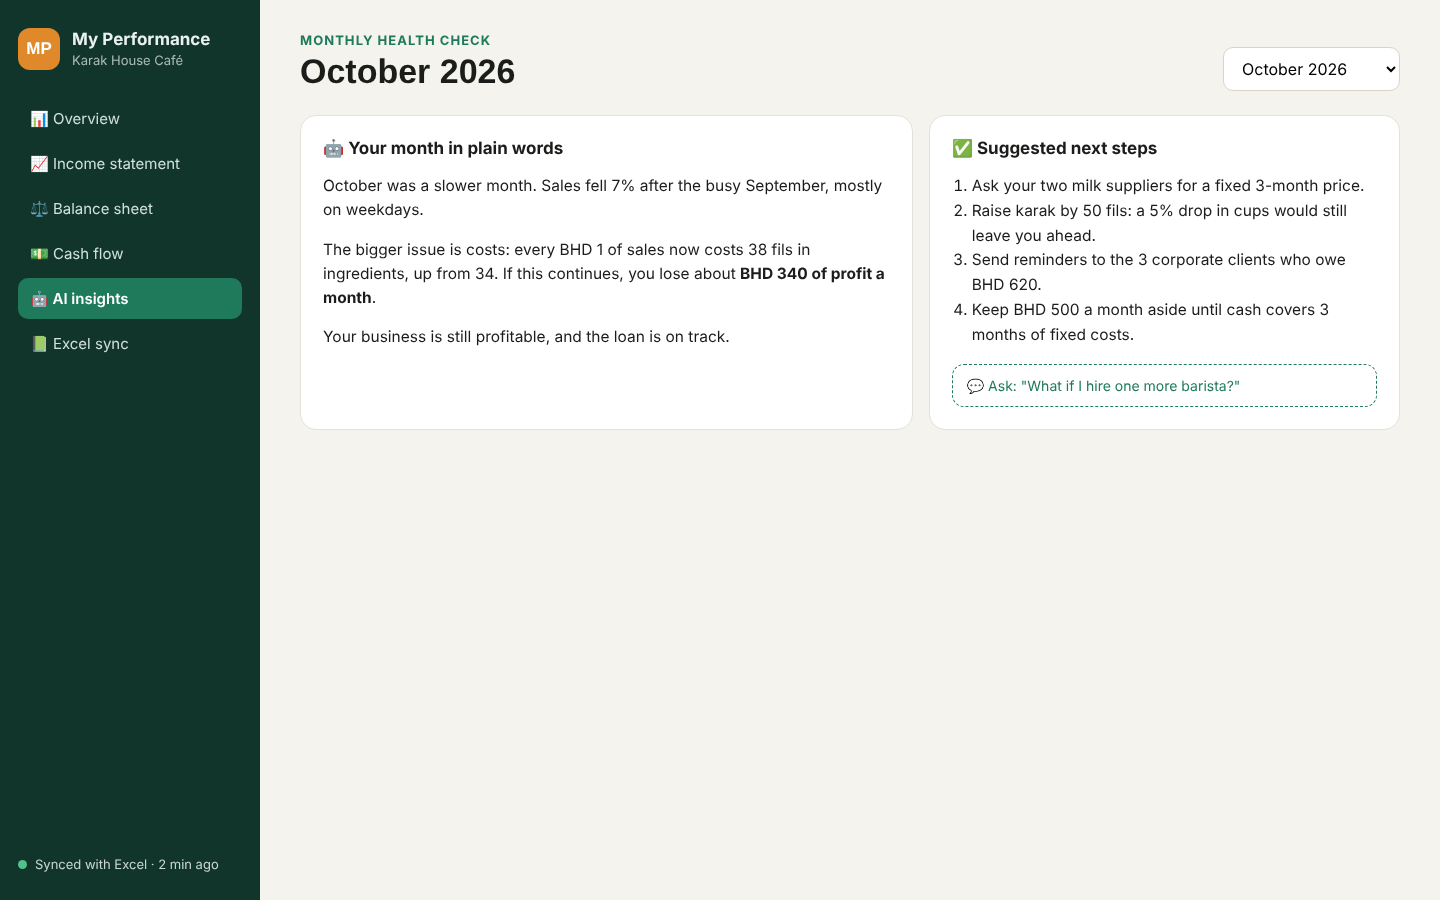
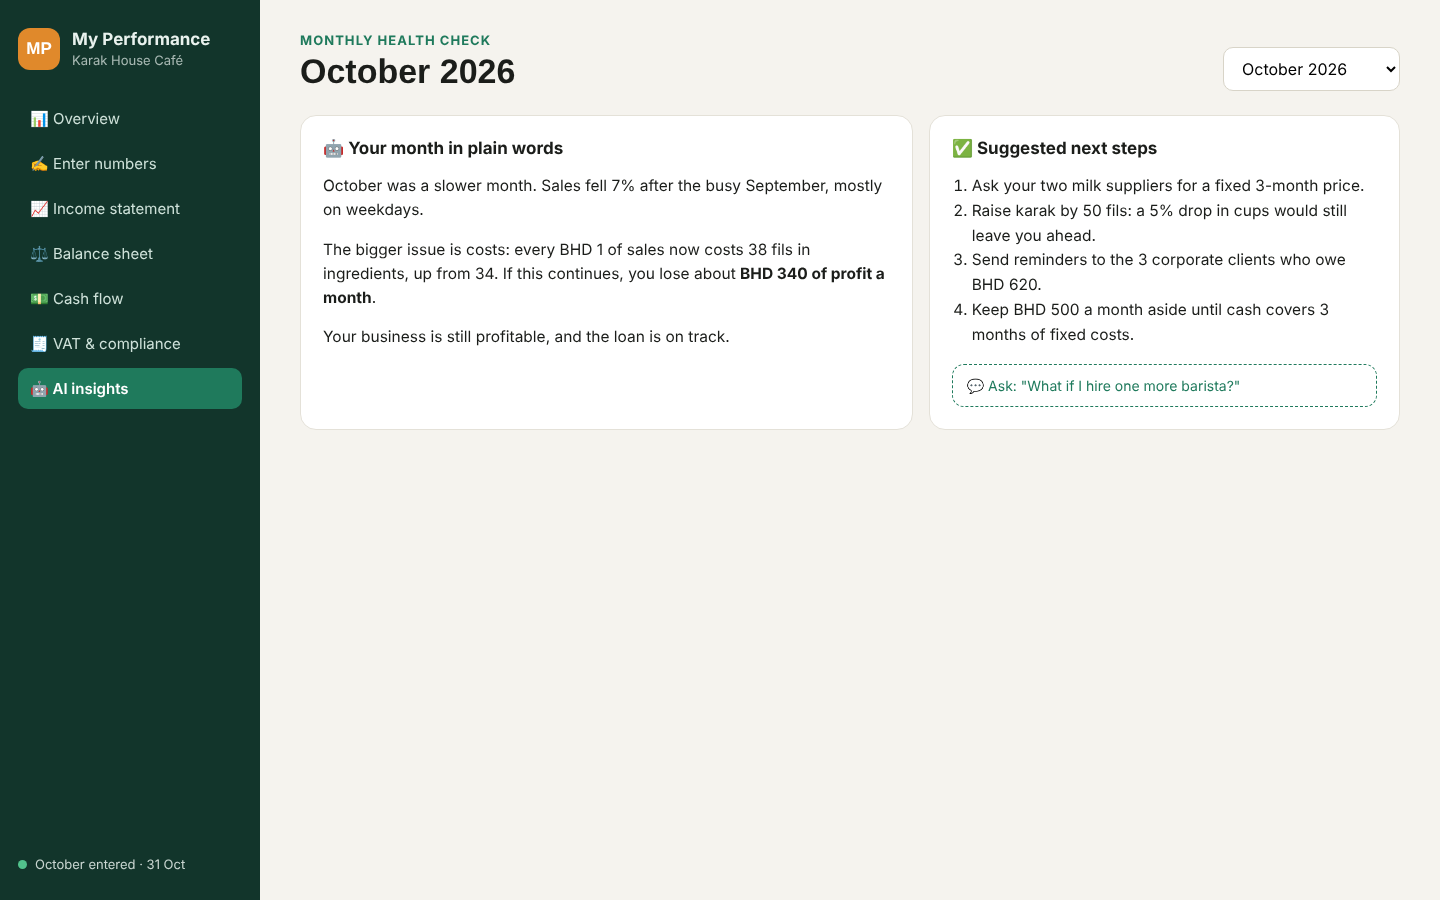
Add monthly entry, VAT and compliance, year-on-year comparison

diff --git a/index.html b/index.html
@@ -14,13 +14,14 @@
     <div class="brand"><div class="mark">MP</div><div><b>My Performance</b><span>Karak House Café</span></div></div>
     <nav id="nav">
       <a data-tab="overview" class="on">📊 Overview</a>
+      <a data-tab="enter">✍ Enter numbers</a>
       <a data-tab="income">📈 Income statement</a>
       <a data-tab="balance">⚖ Balance sheet</a>
       <a data-tab="cash">💵 Cash flow</a>
+      <a data-tab="vat">🧾 VAT &amp; compliance</a>
       <a data-tab="ai">🤖 AI insights</a>
-      <a data-tab="excel">📗 Excel sync</a>
     </nav>
-    <div class="sync"><span class="dot"></span> Synced with Excel · 2 min ago</div>
+    <div class="sync"><span class="dot"></span> October entered · 31 Oct</div>
   </aside>
 
   <main>
@@ -33,15 +34,15 @@
     <section id="overview" class="tab on">
       <div class="grid4">
         <div class="kpi"><p>Health score</p><b class="big good">72<small>/100</small></b><span class="chg down">▼ 6 from September</span></div>
-        <div class="kpi"><p>Sales</p><b class="big">BHD 8,450</b><span class="chg down">▼ 7.1% vs September</span></div>
+        <div class="kpi"><p>Sales</p><b class="big">BHD 8,450</b><span class="chg up">▲ 8% vs Oct 2025</span></div>
         <div class="kpi"><p>Net profit</p><b class="big">BHD 710</b><span class="chg down">▼ 32% vs September</span></div>
-        <div class="kpi"><p>Cash in the bank</p><b class="big">BHD 4,850</b><span class="chg">≈ 1.1 months of fixed costs</span></div>
+        <div class="kpi"><p>🧾 VAT return</p><b class="big">Due in 12 days</b><span class="chg up">BHD 486 to pay · ready to file</span></div>
       </div>
       <div class="grid2">
         <div class="card">
-          <h3>Sales and profit, last 6 months</h3>
+          <h3>Sales: 2026 vs 2025</h3>
           <div id="chart" class="chart"></div>
-          <div class="legend"><span><i class="l1"></i>Sales</span><span><i class="l2"></i>Net profit</span></div>
+          <div class="legend"><span><i class="l1"></i>2026</span><span><i class="l3"></i>2025</span></div>
         </div>
         <div class="card">
           <h3>⚠ Early warnings</h3>
@@ -49,7 +50,57 @@
             <li class="red"><b>Cost of goods is rising</b><span>38% of sales this month, up from 34%. Milk and cardamom prices went up.</span></li>
             <li class="amber"><b>Cash cover is thin</b><span>Cash covers about 1.1 months of rent, salaries and bills. Aim for 3 months.</span></li>
             <li class="amber"><b>Customers owe more</b><span>Money owed by corporate clients rose by BHD 150.</span></li>
-            <li class="green"><b>Loan on track</b><span>Repayments are on time. BHD 5,200 left.</span></li>
+            <li class="amber"><b>CR renewal next month</b><span>Renew before the expiry date to avoid a fine.</span></li>
+          </ul>
+        </div>
+      </div>
+    </section>
+
+    <!-- ENTER -->
+    <section id="enter" class="tab">
+      <div class="grid2">
+        <div class="card">
+          <h3>✍ Enter October's numbers</h3>
+          <p class="muted">Fill in the month's totals. Everything else is calculated for you.</p>
+          <div class="form">
+            <label>Sales<input data-k="sales" value="8450"></label>
+            <label>Cost of goods<input data-k="cogs" value="3210"></label>
+            <label>Rent<input data-k="rent" value="1200"></label>
+            <label>Salaries<input data-k="sal" value="2400"></label>
+            <label>Utilities<input data-k="util" value="380"></label>
+            <label>Marketing<input data-k="mkt" value="250"></label>
+            <label>Other expenses<input data-k="oth" value="180"></label>
+            <label>Cash in the bank<input data-k="cash" value="4850"></label>
+          </div>
+          <button class="btn" id="save">Save month</button> <span id="saved" class="muted"></span>
+        </div>
+        <div class="card">
+          <h3>⚡ Calculated instantly</h3>
+          <table id="live"></table>
+          <p class="muted" style="margin-top:14px">All amounts in BHD. VAT at 10%.</p>
+        </div>
+      </div>
+    </section>
+
+    <!-- VAT -->
+    <section id="vat" class="tab">
+      <div class="grid2">
+        <div class="card"><h3>🧾 VAT return · Q4 2026 <em>ready to file</em></h3>
+        <table>
+          <tr><th>BHD</th><th>October</th></tr>
+          <tr><td>Sales (before VAT)</td><td>8,450</td></tr>
+          <tr><td>Output VAT charged (10%)</td><td>845</td></tr>
+          <tr><td>Input VAT paid on purchases</td><td>(359)</td></tr>
+          <tr class="total"><td>VAT to pay</td><td>486</td></tr>
+        </table>
+        <p class="muted" style="margin-top:14px">📅 Filing deadline in 12 days. We remind you 7 days and 1 day before.</p>
+        </div>
+        <div class="card"><h3>✅ Compliance checklist</h3>
+          <ul class="warn">
+            <li class="amber"><b>VAT return due in 12 days</b><span>Figures ready. A late return means a fine.</span></li>
+            <li class="amber"><b>Commercial registration (CR)</b><span>Renewal due next month.</span></li>
+            <li class="green"><b>Social insurance</b><span>October contributions paid on time.</span></li>
+            <li class="green"><b>Staff work permits</b><span>All valid. Next expiry in 45 days.</span></li>
           </ul>
         </div>
       </div>
@@ -137,27 +188,6 @@
       </div>
     </section>
 
-    <!-- EXCEL -->
-    <section id="excel" class="tab">
-      <div class="grid2">
-        <div class="card">
-          <h3>📗 Two-way sync with Excel</h3>
-          <p class="muted">Keep using your own spreadsheet. Changes in Excel update the app, and the app writes the three statements back into the file.</p>
-          <ul class="steps">
-            <li><b>1</b> Upload or link your sales and expenses sheet</li>
-            <li><b>2</b> The app sorts each line into the right account</li>
-            <li><b>3</b> Statements and warnings update in seconds</li>
-            <li><b>4</b> Everything is written back to your Excel file</li>
-          </ul>
-          <a class="btn" href="assets/My_Performance_Sample.xlsx" download>⬇ Download the sample Excel file</a>
-        </div>
-        <div class="card">
-          <h3>🏛 The bigger picture</h3>
-          <p>With owners' consent, anonymous monthly figures from many small businesses could give a government partner such as Tamkeen an up-to-date picture of how SMEs in Bahrain are doing, by sector and area, with early warning signs before businesses fail.</p>
-          <div class="pill">Concept · data is a sample business</div>
-        </div>
-      </div>
-    </section>
   </main>
 </div>
 <script>
@@ -165,14 +195,21 @@ document.querySelectorAll('#nav a').forEach(a=>a.onclick=()=>{
   document.querySelectorAll('#nav a').forEach(x=>x.classList.remove('on'));a.classList.add('on');
   document.querySelectorAll('.tab').forEach(t=>t.classList.toggle('on',t.id===a.dataset.tab));
 });
-const m=['May','Jun','Jul','Aug','Sep','Oct'],s=[7800,7200,6900,7600,9100,8450],p=[620,410,260,540,1370,710];
-const W=560,H=240,max=10000,bw=34;let g=`<svg viewBox="0 0 ${W} ${H+30}" width="100%">`;
+const m=['May','Jun','Jul','Aug','Sep','Oct'],s=[7800,7200,6900,7600,9100,8450],ly=[7100,6900,6800,7000,8200,7820];
+const W=560,H=240,max=10000,bw=26;let g=`<svg viewBox="0 0 ${W} ${H+30}" width="100%">`;
 [0,5000,10000].forEach(v=>{const y=H-v/max*H+5;g+=`<line x1="40" x2="${W}" y1="${y}" y2="${y}" stroke="#E4E1D8"/><text x="0" y="${y+4}" font-size="12" fill="#8A877E">${v/1000}k</text>`});
-m.forEach((mm,i)=>{const x=60+i*85,hs=s[i]/max*H,hp=p[i]/max*H;
-g+=`<rect x="${x}" y="${H-hs+5}" width="${bw}" height="${hs}" rx="6" fill="${i==5?'#1F7A5C':'#A9D5C4'}"/>`;
-g+=`<rect x="${x+bw+4}" y="${H-hp+5}" width="${bw/2}" height="${hp}" rx="4" fill="#E0892B"/>`;
-g+=`<text x="${x+bw/2+6}" y="${H+24}" font-size="13" text-anchor="middle" fill="#55524A">${mm}</text>`});
+m.forEach((mm,i)=>{const x=60+i*85,h1=ly[i]/max*H,h2=s[i]/max*H;
+g+=`<rect x="${x}" y="${H-h1+5}" width="${bw}" height="${h1}" rx="5" fill="#C9DDD5"/>`;
+g+=`<rect x="${x+bw+4}" y="${H-h2+5}" width="${bw}" height="${h2}" rx="5" fill="${i==5?'#1F7A5C':'#5DB894'}"/>`;
+g+=`<text x="${x+bw+2}" y="${H+24}" font-size="13" text-anchor="middle" fill="#55524A">${mm}</text>`});
 document.getElementById('chart').innerHTML=g+'</svg>';
+function fmt(n){return (n<0?'(':'')+Math.abs(Math.round(n)).toLocaleString('en-US')+(n<0?')':'')}
+function calc(){const v={};document.querySelectorAll('#enter input').forEach(i=>v[i.dataset.k]=parseFloat(i.value)||0);
+const gp=v.sales-v.cogs,opex=v.rent+v.sal+v.util+v.mkt+v.oth,np=gp-opex-120,vat=v.sales*0.1,inv=(v.cogs+v.util)*0.1;
+const months=v.cash/opex;
+document.getElementById('live').innerHTML=`<tr><th>Result</th><th>BHD</th></tr><tr><td>Gross profit</td><td>${fmt(gp)}</td></tr><tr><td>Gross margin</td><td>${(gp/v.sales*100).toFixed(0)}%</td></tr><tr><td>Net profit</td><td>${fmt(np)}</td></tr><tr><td>VAT to pay</td><td>${fmt(vat-inv)}</td></tr><tr class="total"><td>Cash covers</td><td>${months.toFixed(1)} months ${months<3?'⚠':'✅'}</td></tr>`}
+document.querySelectorAll('#enter input').forEach(i=>i.oninput=calc);calc();
+document.getElementById('save').onclick=()=>{document.getElementById('saved').textContent=' ✅ Saved. Dashboard updated.'};
 </script>
 </body>
 </html>

diff --git a/assets/style.css b/assets/style.css
@@ -34,3 +34,8 @@ tr.sub td{font-weight:600;background:#FAF9F5}tr.total td{font-weight:700;border-
 .pill{display:inline-block;margin-top:8px;font-size:13px;background:#FDF3E3;color:#9A5A13;padding:6px 12px;border-radius:20px}
 .card p{line-height:1.55}
 @media(max-width:900px){.app{flex-direction:column}.side{width:auto}nav{flex-direction:row;flex-wrap:wrap}.sync{margin-top:0}main{padding:20px}.grid4{grid-template-columns:1fr 1fr}.grid2{grid-template-columns:1fr}}
+.l3{background:#C9DDD5}.chg.up{color:#1F7A5C}
+.form{display:grid;grid-template-columns:1fr 1fr;gap:12px 16px;margin:16px 0}
+.form label{display:flex;flex-direction:column;font-size:13px;color:#6B685F;gap:6px}
+.form input{padding:10px 12px;border:1px solid #D8D4C8;border-radius:10px;font:inherit;font-size:15px;color:#1B1D1A}
+button.btn{border:none;cursor:pointer;font:inherit;font-weight:600}

diff --git a/README.md b/README.md
@@ -2,7 +2,7 @@
 
 **A monthly health check for small businesses in Bahrain.**
 
-Small business owners often find out something is wrong only when the cash runs out. My Performance turns the sales and expenses they already keep in Excel into a clear monthly picture, so problems are caught early.
+Small business owners often find out something is wrong only when the cash runs out, and VAT or licence deadlines can cost them fines. Owners enter their monthly numbers and My Performance builds the statements, handles VAT and compliance, and warns early.
 
 **Live mockup:** https://mohammedbaqerdata.github.io/my-performance/
 
@@ -12,7 +12,9 @@ Small business owners often find out something is wrong only when the cash runs 
 
 - 📊 **Monthly dashboard** – health score, sales, profit and cash at a glance
 - 📑 **Three statements, built automatically** – income statement, balance sheet and cash flow
-- 📗 **Two-way Excel sync** – keep working in your own spreadsheet; the app reads it and writes the statements back
+- ✍ **Simple monthly entry** – the owner fills in sales and expenses; everything else is calculated
+- 🧾 **VAT and compliance** – VAT worked out, deadlines tracked, reminders before fines
+- 📈 **Compare with the past** – every month against previous months and years
 - 🤖 **AI insights** – explains the month in plain words, flags early warnings and suggests next steps
 - ⚠ **Early warnings** – rising costs, thin cash cover, customers paying late
 
@@ -24,11 +26,11 @@ With owners' consent, anonymous monthly figures from many small businesses could
 
 ## Status
 
-Concept and clickable mockup. The numbers shown are for a sample café. A sample Excel file is in [`assets/My_Performance_Sample.xlsx`](assets/My_Performance_Sample.xlsx).
+Concept and clickable mockup. The numbers shown are for a sample café.
 
-| Income statement | Excel sync |
+| Enter numbers | VAT and compliance |
 |---|---|
-| ![Income statement](screenshots/income.png) | ![Excel sync](screenshots/excel.png) |
+| ![Enter numbers](screenshots/enter.png) | ![VAT and compliance](screenshots/vat.png) |
 
 ---
 Mohammed Baqer · Financial Technology, Bahrain Polytechnic · [LinkedIn](https://linkedin.com/in/mohamed-baqer)
